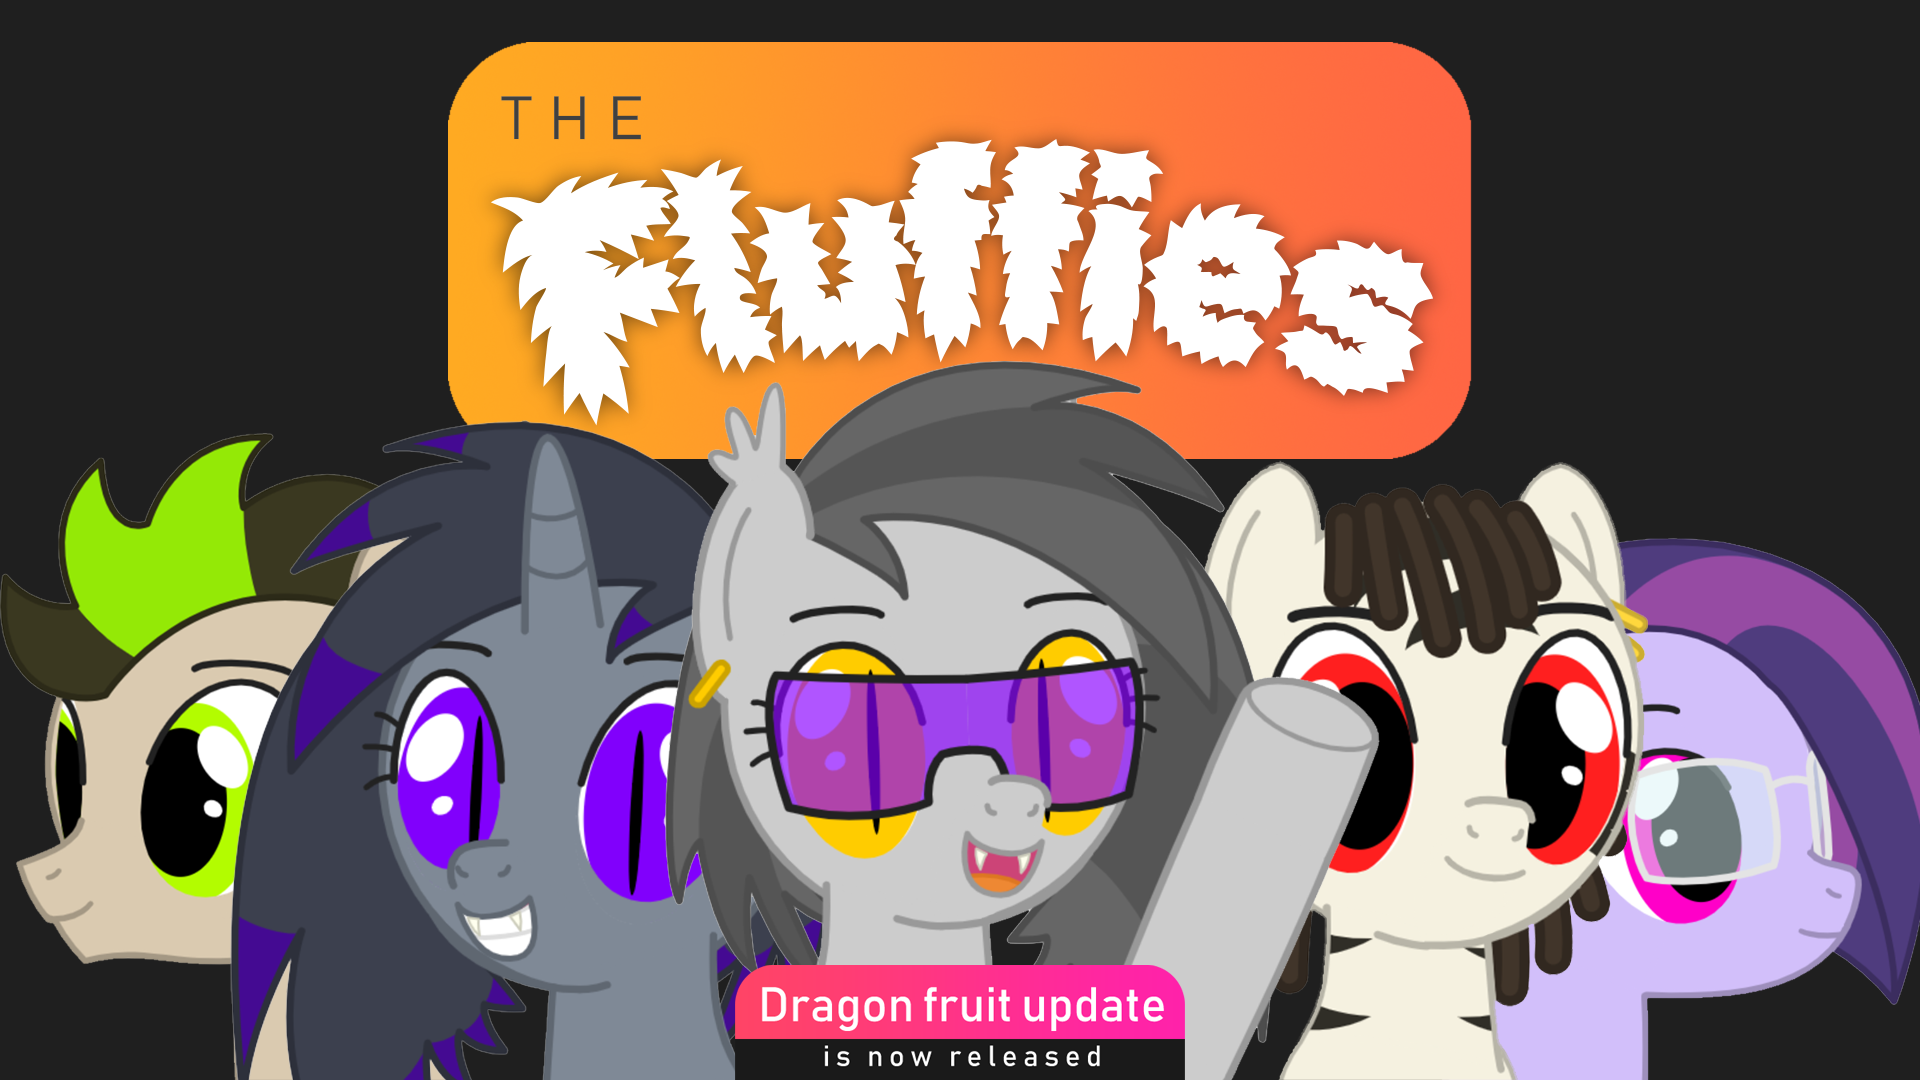
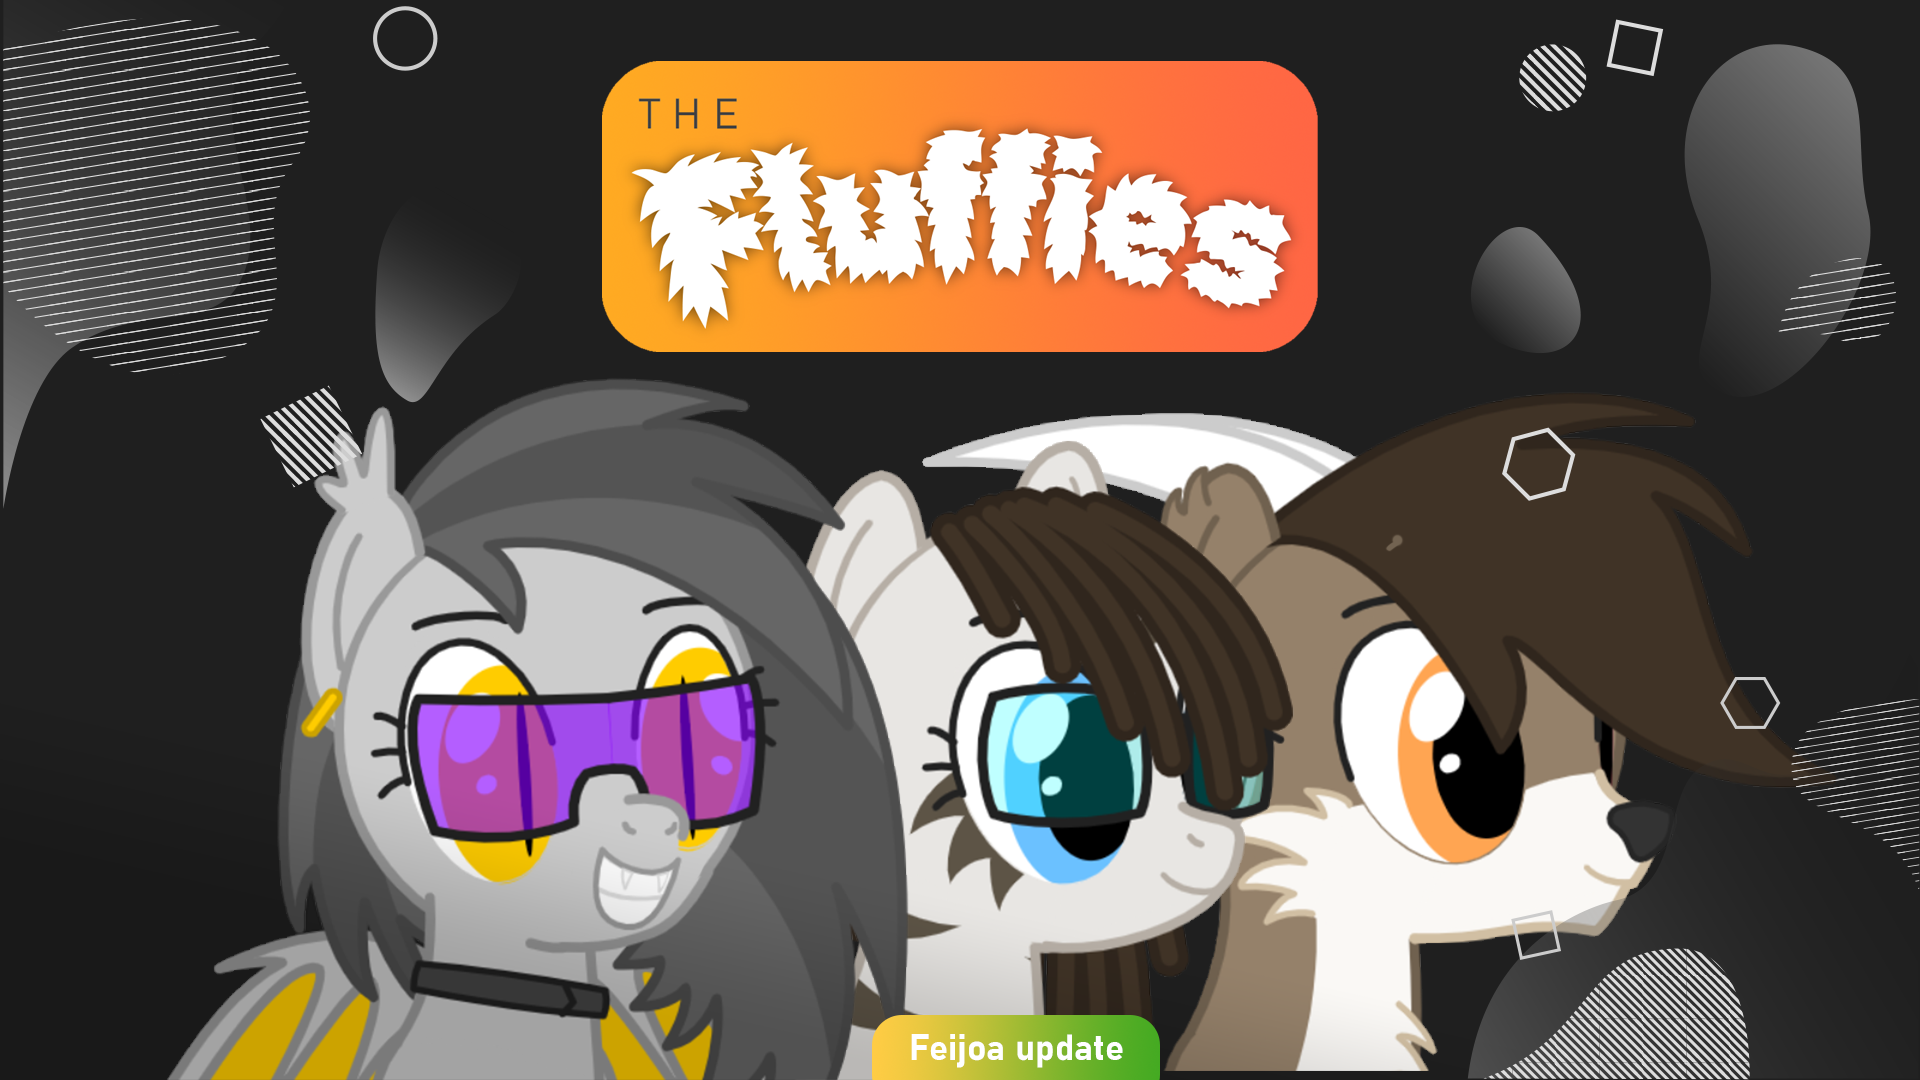
Transition to the Feijoa version

diff --git a/components/Version.vue b/components/Version.vue
@@ -1,10 +1,10 @@
 <template lang="pug">
   v-chip {{ $t('index.version') }}
-    v-chip.version.v-avatar--right(dark) elderberry
+    v-chip.version.v-avatar--right(dark) feijoa
 </template>
 
 <style lang="sass">
 span.version
-  background-image: linear-gradient(to right, #a4e, #426)!important
+  background-image: linear-gradient(to right, #fc4, #4a2)!important
   margin-right: -12px!important
 </style>

diff --git a/server/index.js b/server/index.js
@@ -71,7 +71,7 @@ io.on('connection', (socket) => {
 
   sendMessage(
     {
-      text: 'Welcome to The Fluffies - Elderberry version, enjoy! :3'
+      text: 'Welcome to The Fluffies - Feijoa version, enjoy! :3'
     },
     'ann',
     socket

diff --git a/assets/ts/dataCompile.ts b/assets/ts/dataCompile.ts
@@ -1,5 +1,5 @@
 import { IObject } from '~/types/basic'
-import { ICompiledPaths, IPaths } from '~/types/paths'
+import { ICompiledPaths } from '~/types/paths'
 
 import abs from 'abs-svg-path'
 import parse from 'parse-svg-path'
